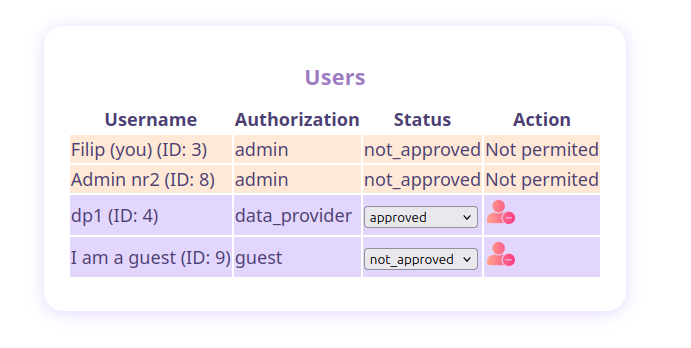
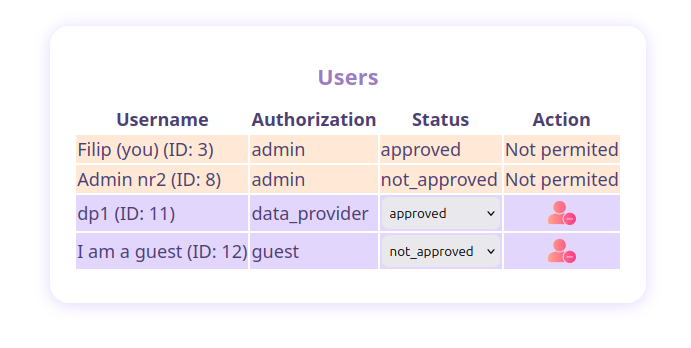
doucmentation

diff --git a/frontend/src/User/UserList.jsx b/frontend/src/User/UserList.jsx
@@ -120,6 +120,12 @@ function UserList() {
                   <select
                     onChange={(e) => updateUserStatus(u.id, e.target.value)}
                     defaultValue={u.status}
+                    style={{
+                      flex: 1,
+                      padding: "0.5rem",
+                      borderRadius: "8px",
+                      border: "1px solid #e0d7fa",
+                    }}
                   >
                     {statuses.map((v, i) => (
                       <option key={i} value={v}>
@@ -133,14 +139,26 @@ function UserList() {
                 {authMap[u.authorization] >= authMap[user.authorization] ? (
                   "Not permited"
                 ) : (
-                  <>
+                  <div
+                    style={{
+                      position: "relative",
+                    }}
+                  >
                     <img
                       src={delete_user}
                       alt="delete"
                       title="remove user"
                       onClick={() => removeUser(u.id)}
+                      style={{
+                        position: "absolute",
+                        margin: "auto",
+                        top: 0,
+                        left: 0,
+                        right: 0,
+                        bottom: 0,
+                      }}
                     />
-                  </>
+                  </div>
                 )}
               </td>
             </tr>
